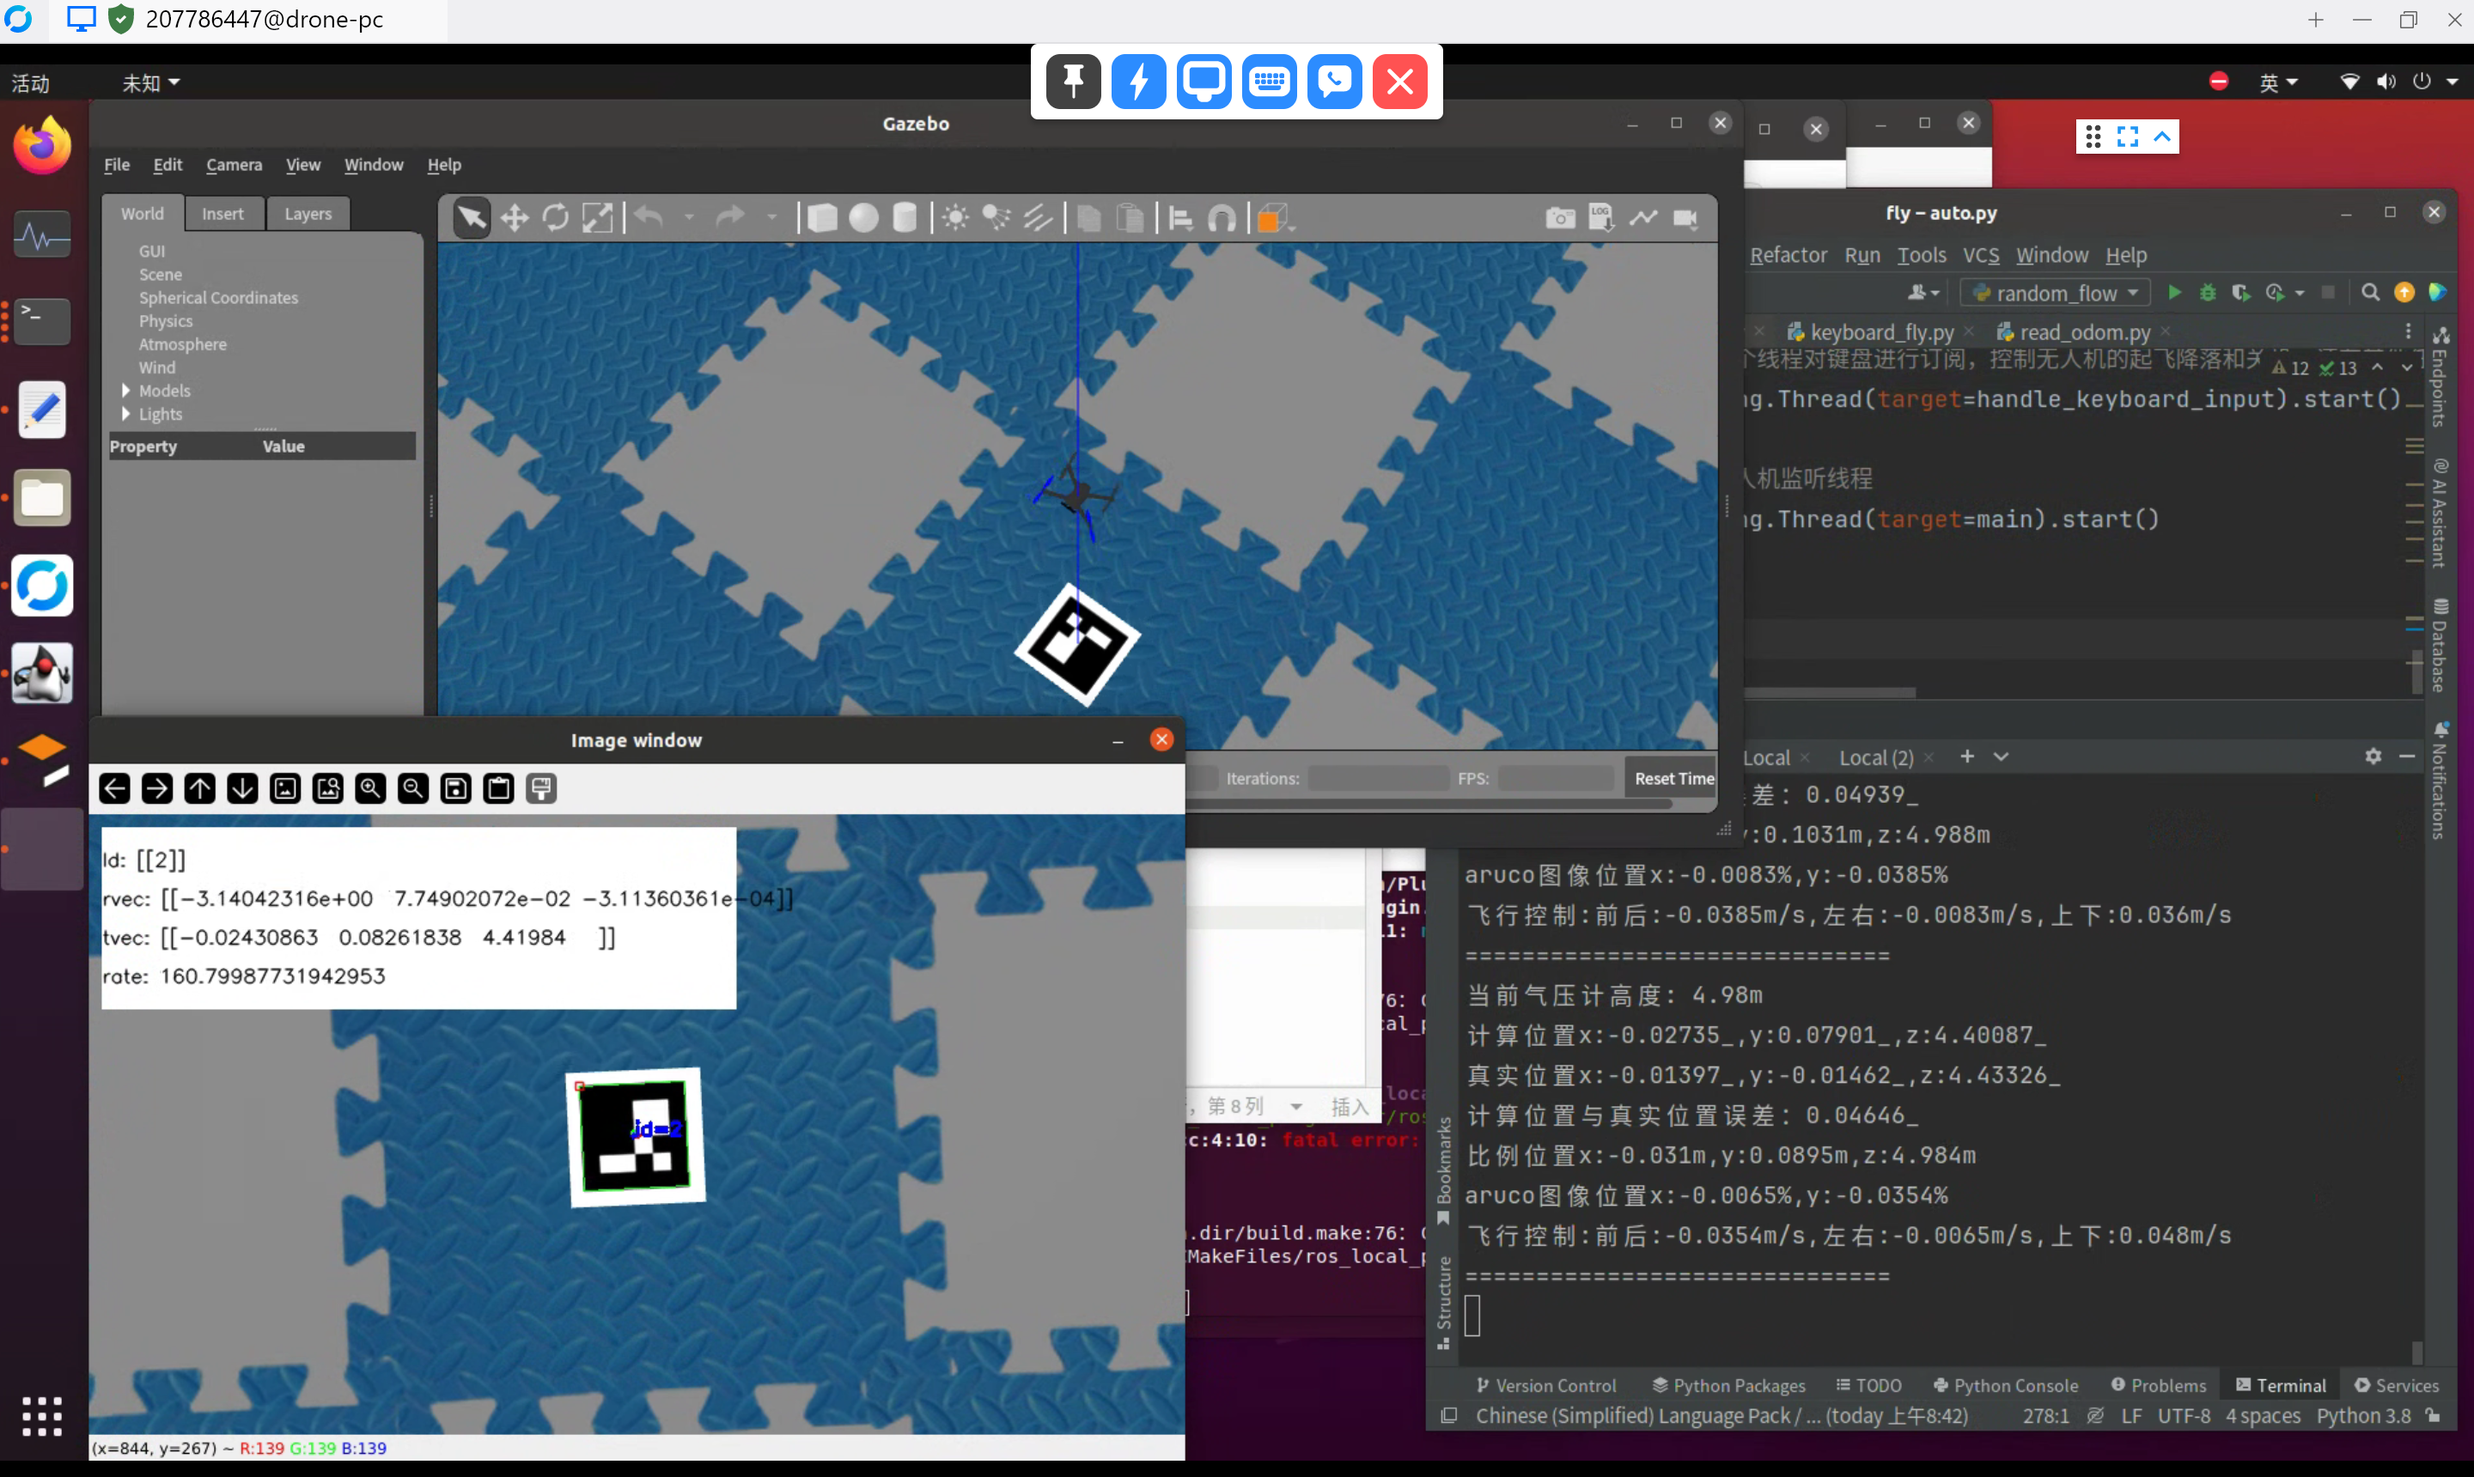
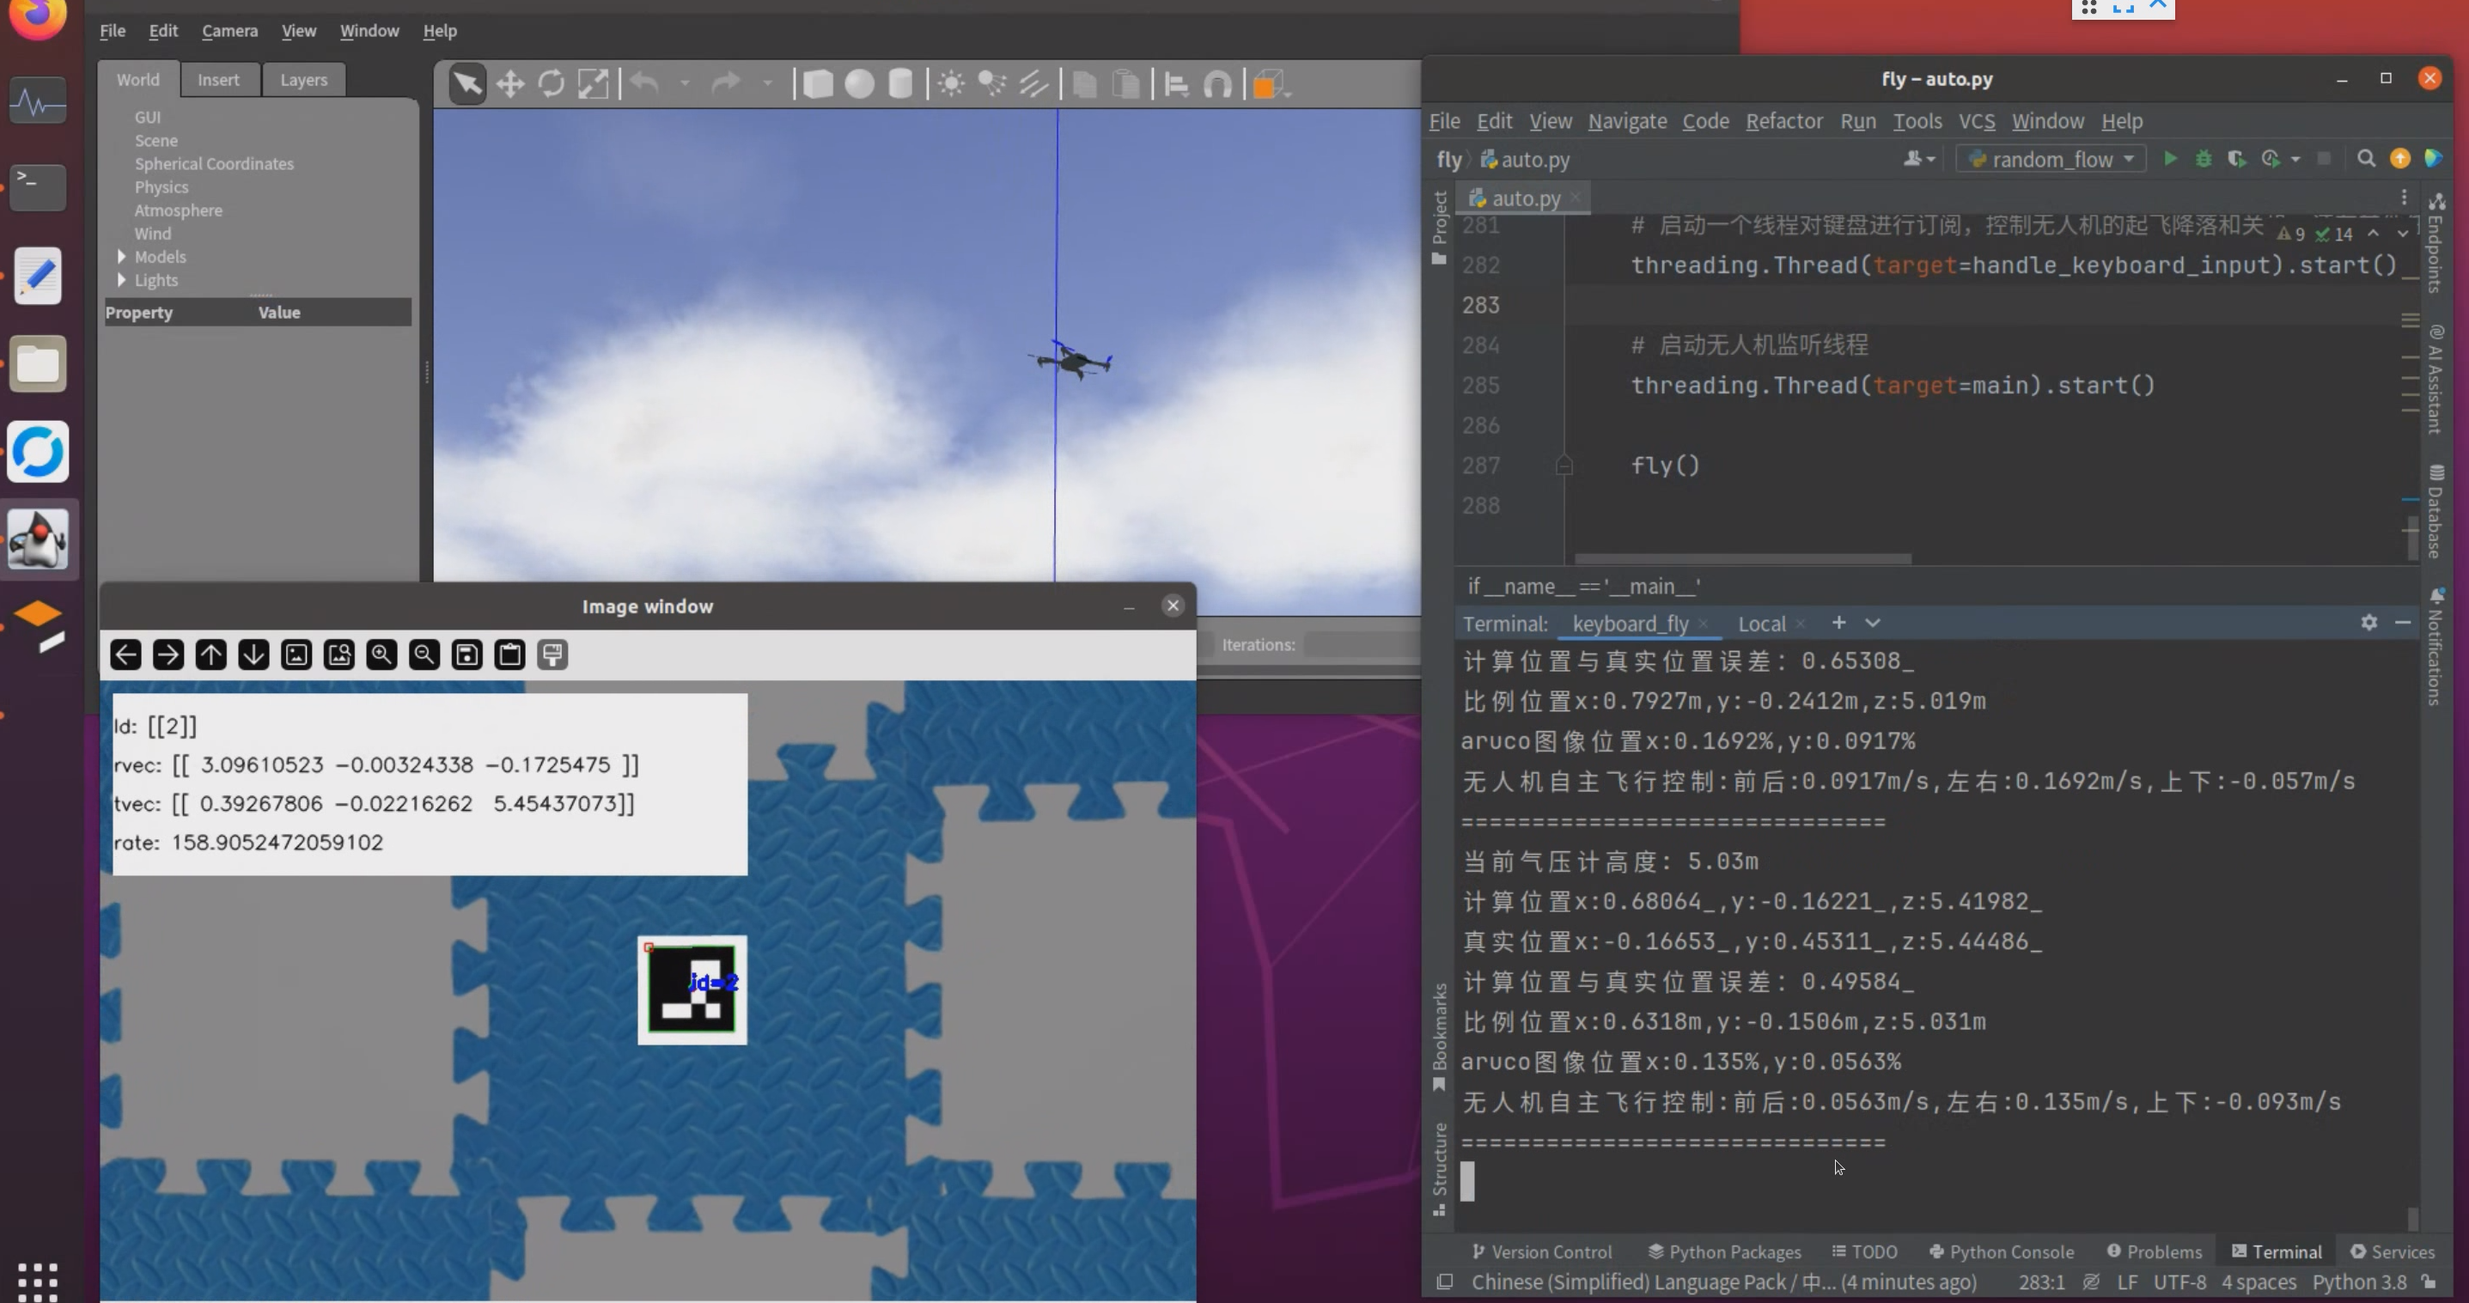
通过aruco计算的位置与真实的位置误差

diff --git a/fly/auto_fly_and_land_tag.py b/fly/auto_fly_and_land_tag.py
@@ -78,7 +78,7 @@ def handle_keyboard_input():
     keyboard.on_press_key('l', landing)
 
 
-# 对图像进行订阅
+# 对图像和无人机在模拟环境中的位置进行订阅
 class Ros2TopicSubscription(Node):
     def __init__(self):
         super().__init__('ros2_topic_subscriber')
